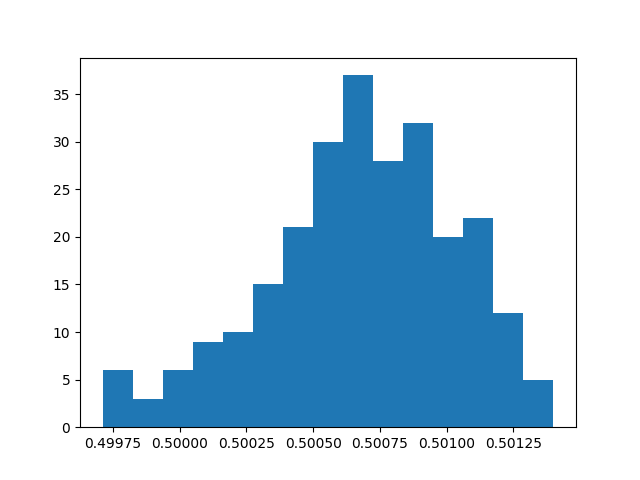
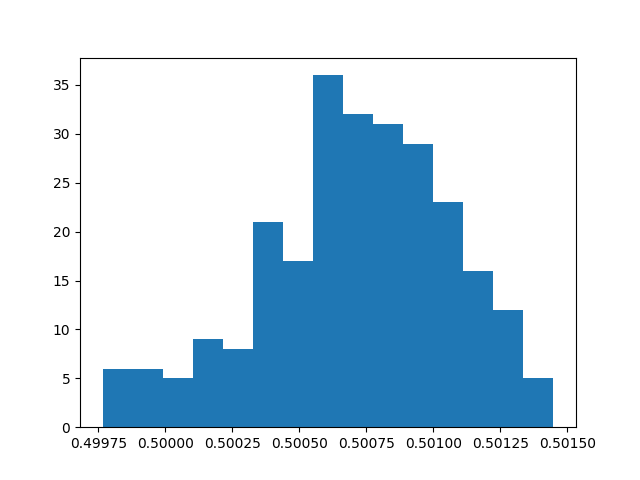
various changes, implementing crossattention

diff --git a/model.py b/model.py
@@ -106,10 +106,12 @@ class Pct(nn.Module):
         #print("output SA:", x.shape)
 
         #POOLING INSTEAD OF CLASS TOKEN
-        x = F.adaptive_max_pool1d(x[:,:-1,:], 2).view(batch_size, -1)
-        x = F.leaky_relu(self.bn6(self.linear1(x)), negative_slope=0.2)
+        #x = F.adaptive_max_pool1d(x[:,:-1,:], 2).view(batch_size, -1)
+        #x = F.leaky_relu(self.bn6(self.linear1(x)), negative_slope=0.2)
 
-        #x = F.leaky_relu(self.bn6(self.linear1(x[:,-1,:])), negative_slope=0.2)
+        x = F.leaky_relu(self.bn6(self.linear1(x[:,-1,:])), negative_slope=0.2)
+        
+        
         x = self.dp1(x)
         x = F.leaky_relu(self.bn7(self.linear2(x)), negative_slope=0.2)
         x = self.dp2(x)
@@ -307,17 +309,15 @@ class Point_Transformer_Adaptive(nn.Module):
 
 class CrossAttention(nn.Module):
     
-    def __init__(self, d_model, d_k, d_v, dropout=0.1):
+    def __init__(self, d_model, d_k, d_v, n_q, dropout=0.1):
         super().__init__()
 
-        self.w_qs = nn.Conv1d(d_model, d_k, kernel_size=1, bias=False)
         self.w_ks = nn.Conv1d(d_model, d_k, kernel_size=1, bias=False)
         self.w_vs = nn.Conv1d(d_model, d_v, kernel_size=1, bias=False)
-        
-        nn.init.normal_(self.w_qs.weight, mean=0, std=np.sqrt(2.0 / (d_model + d_k)))
+        self.q = nn.Parameter(torch.randn((n_q,d_k), requires_grad=True)) # trainable queries
         nn.init.normal_(self.w_ks.weight, mean=0, std=np.sqrt(2.0 / (d_model + d_k)))
         nn.init.normal_(self.w_vs.weight, mean=0, std=np.sqrt(2.0 / (d_model + d_v)))
-        
+
         self.fc = nn.Conv1d(d_v, d_model, kernel_size=1, bias=False)
         nn.init.xavier_normal_(self.fc.weight)
         self.dropout = nn.Dropout(p=dropout)
@@ -328,13 +328,82 @@ class CrossAttention(nn.Module):
         x = x.permute(0,2,1)
 
         # x (batch, tokens, features) are the tokens.
-        q = self.w_qs(x)
+        q = repeat(self.q, 'nq dk -> b dk nq', b=x.shape[0])
         k = self.w_ks(x)
         v = self.w_vs(x)
-        attn = torch.einsum('blk,btk->blt', [q, k]) / np.sqrt(q.shape[-1])
-        attn = attn.softmax(dim=-1)
-        output = torch.einsum('bhlt,bhtv->bhlv', [attn, v])
-        output = rearrange(output, 'b head l v -> b (head v) l')
-        output = self.dropout(self.fc(output))
-        return output, attn
+        #v = self.v
+        print(q.shape, k.shape)
+        attn = torch.einsum('bkt,bkl->blt', [q, k]) / np.sqrt(q.shape[-1])
+        
+        
+        if self.training: 
+            #ATTENTION WITH GUMBEL
+            hardattn = F.gumbel_softmax(torch.log(attn), hard=True)
+        else:
+            #HARD ATTENTION WITH ARGMAX
+            hard = torch.argmax(attn, dim=-1)
+            hardattn = torch.zeros_like(attn).scatter_(-1, hard.unsqueeze(-1), 1)
+        
+        print(attn.shape, v.shape)
+        output = torch.einsum('btl,bvt->blv', [hardattn, v])
+        output = rearrange(output, 'b l v -> b v l')
+        output = self.dropout(self.fc(output)).permute(0,2,1)
+        return output, hardattn
+    
 
+class CrossTransformerBlock(nn.Module):
+    def __init__(self, d_model, d_k, d_v, n_q, dropout=0.1):
+        super().__init__()
+        self.sa = CrossAttention(d_model, d_k, d_v, n_q=n_q,dropout=dropout)
+        self.ln1 = nn.LayerNorm(d_model)
+        self.ln2 = nn.LayerNorm(d_model)
+        self.ff = nn.Sequential(
+            nn.Linear(d_model, d_model*2),
+            nn.GELU(),
+            nn.Linear(d_model*2, d_model)
+        )
+
+    def forward(self, x, policy=None):
+        x = self.sa(self.ln1(x), policy=policy)[0].permute(0,2,1) + x
+        x = self.ff(self.ln2(x)) + x
+        return x
+    
+
+
+class Point_Transformer_Merger(nn.Module):
+    def __init__(self, args, channels=256, d_model = 256, d_k=16, d_v=32, n_heads=8, n_blocks=4, n_mergers=4, n_q = [64,32,16,8]):
+        super(Point_Transformer_Merger, self).__init__()
+        self.args = args
+        self.conv1 = nn.Conv1d(channels, d_model, kernel_size=1, bias=False)
+        self.conv2 = nn.Conv1d(d_model, d_model, kernel_size=1, bias=False)
+
+        self.bn1 = nn.BatchNorm1d(d_model)
+        self.bn2 = nn.BatchNorm1d(d_model)
+
+        self.cls_token = nn.Parameter(torch.randn((d_model,), requires_grad=True)) # Class token
+        self.blocks = nn.ModuleList([TransformerBlock(d_model, d_k, d_v, n_heads) for _ in range(n_blocks)]) # Transformer blocks
+        self.mergers = nn.ModuleList([CrossTransformerBlock(d_model, d_k, d_v, n_q[i]) for i in range(n_blocks)]) # Transformer blocks
+        #self.layers_to_drop = layers_to_drop
+        #self.score_predictor = nn.ModuleList([DropPredictor(d_model) for _ in range(n_blocks)])
+        
+    def forward(self, x, drop_temp=1):
+        
+        # B, D, N
+        x = F.relu(self.bn1(self.conv1(x)))
+        x = F.relu(self.bn2(self.conv2(x)))
+
+        x = x.permute(0,2,1)
+        x = torch.cat([x, repeat(self.cls_token, 'v -> b 1 v', b=x.shape[0])], dim=1)
+    
+        # Initialize drop decisions
+        B, P, _ = x.shape
+        policy = torch.ones(B, P, 1, dtype=x.dtype, device=x.device)
+        #policy = torch.zeros(B, P, 1, dtype=x.dtype, device=x.device)
+
+        for i, l in enumerate(self.blocks):
+            
+            x = self.mergers[i](x, policy=policy)
+            x = l(x)
+
+        return x
+    

diff --git a/main2.py b/main2.py
@@ -21,7 +21,7 @@ from mpl_toolkits.mplot3d import Axes3D
 import time 
 import os
 os.environ["CUDA_DEVICE_ORDER"] = "PCI_BUS_ID"
-os.environ["CUDA_VISIBLE_DEVICES"] = "2"
+os.environ["CUDA_VISIBLE_DEVICES"] = "1"
 os.environ["WANDB_API_KEY"] = "04a5d6fba030b76e5b620f5bd6509cf7dffebb8b"
 
 
@@ -64,7 +64,9 @@ def test(args, io):
 
     model = Lightning_Pct(args)
     #ckpt_path = "checkpoints/"+args.exp_name+"/models/best.ckpt"
-    ckpt_path = "PCT_Pytorch/6w3c4337/checkpoints/epoch=99-step=15300.ckpt"
+    #ckpt_path = "PCT_Pytorch/6w3c4337/checkpoints/epoch=99-step=15300.ckpt"  #DETERMINISTIC DROP
+    ckpt_path = "PCT_Pytorch/1nca3jm1/checkpoints/epoch=99-step=15300.ckpt"   #GUMBEL NOISE
+
     #model = model.load_from_checkpoint(ckpt_path, args)
     model.load_state_dict(torch.load(ckpt_path)["state_dict"])
     #model = nn.DataParallel(model) 
@@ -98,15 +100,15 @@ def visualize(args, io):
     print(preds, y)
     print(masks[2])
 
-    print(distrs[3])
+    print(distrs[2])
 
-    keepprob = [temp[1] for temp in distrs[3]]
+    keepprob = [temp[1] for temp in distrs[2]]
 
     #print(keepprob)
     fig = plt.figure()
     ax = fig.add_subplot(111)
     ax.hist(keepprob, bins=15)
-    plt.savefig("histdrop3.png")
+    plt.savefig("histdrop2.png")
 
     fig = plt.figure()
     ax = fig.add_subplot(111, projection='3d')

diff --git a/debug.py b/debug.py
@@ -1,10 +1,18 @@
-import matplotlib.pyplot as plt
-import numpy as np
+from model import CrossAttention
+import torch
+import torch.nn.functional as F
 
-x = np.array([1,2,3,4,5,6,7,8,9,10])
-y = np.array([1,2,3,4,5,6,7,8,9,10])
-fig = plt.figure()
-ax = fig.add_subplot(111)
-ax.plot(x, y)
-plt.savefig("dummy_name.png")
 
+
+crossatt = CrossAttention(128,64,64,3)
+x = torch.randn(1, 10, 128)
+
+output, attn = crossatt(x)
+
+print(attn)
+hard = torch.argmax(attn, dim=-1)
+print(hard)
+print(output.shape)
+
+gumbatt = F.gumbel_softmax(torch.log(attn), hard=True, tau=10e-8)
+print(gumbatt+attn)

diff --git a/pylightning_mods.py b/pylightning_mods.py
@@ -1,3 +1,5 @@
+
+
 import torch
 import pytorch_lightning as pl
 from torch import optim
